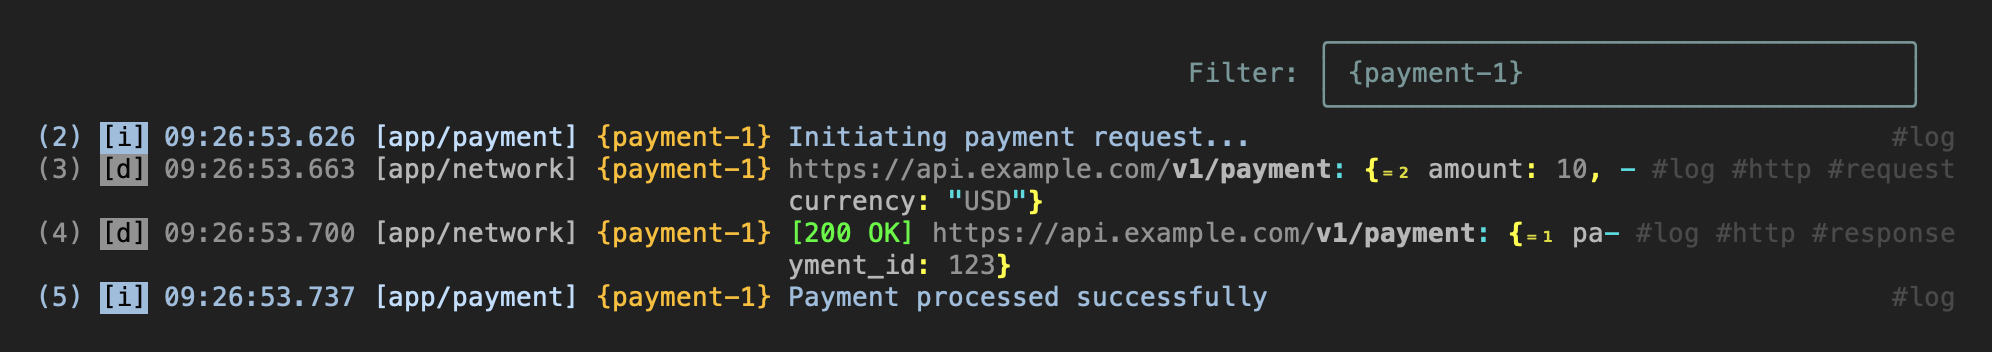
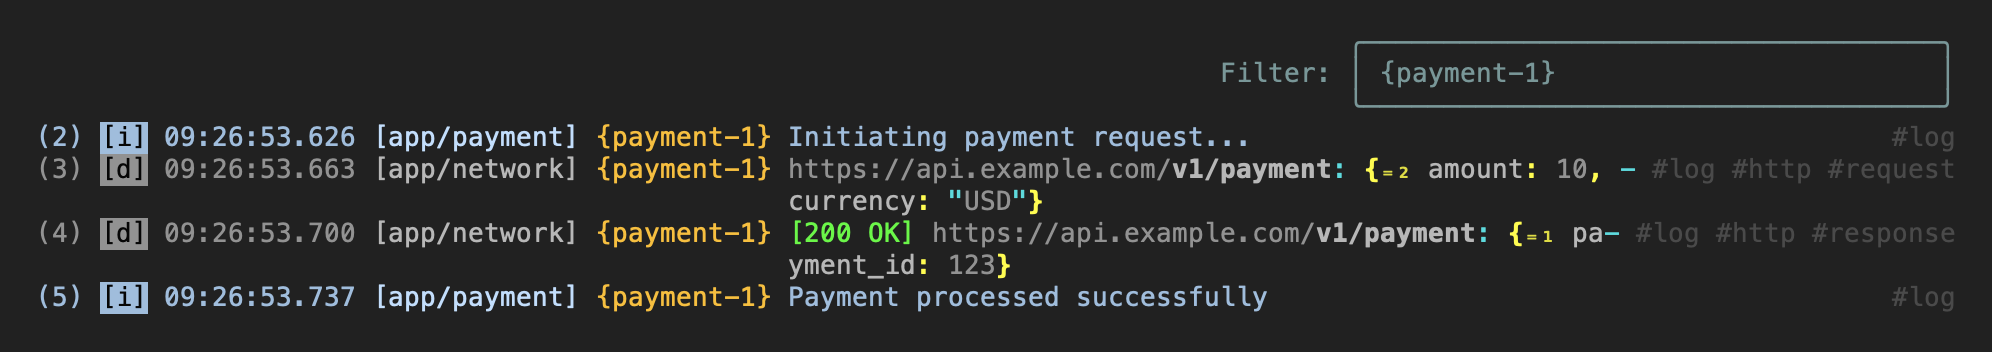
docs: shift the frame annotations as asked
Three backlog items, all of them edits to frame code rather than to
images: the Filter box, the arrows and the descriptions are drawn by the
frame itself with ordinary spaces and live in the .ansi, so moving them
is a matter of indentation plus a re-shoot.

quick_start_1 moves its arrow-and-caption diagram one column left,
quick_start_2..4 move the Filter box two right, trace_4 moves its red
description two right. Exactly the five frames named changed, and a
second --check after the rebuild returns 0.

One consequence worth knowing: the diagram moved as a whole, including
the maxLength: 120 rule beneath it, or the rule would have drifted out of
line with the diagram above. That rule had a single leading space, so it
now starts at column zero and the block cannot go further left without
breaking its own alignment.

Claude-Session: https://claude.ai/code/session_018MEFU6GzoRqzwudmczs1Dg

diff --git a/example/bin/readme_examples/quick_start.dart b/example/bin/readme_examples/quick_start.dart
@@ -49,11 +49,11 @@ Future<void> _quickStart() async {
   await _payment();
 
   print(Styles.rgb311('''
-  ┬   ┬                ┬──────────   ┬────────  ──────┬────────────────────────────────────────────╯ ╰──────────────────┬
-  │   ╰─ level         │             ╰─ trace ID      ╰─ message with data                                        tags ─╯
-  ╰─ sequence number   ╰─ namespace path
+ ┬   ┬                ┬──────────   ┬────────  ──────┬────────────────────────────────────────────╯ ╰──────────────────┬
+ │   ╰─ level         │             ╰─ trace ID      ╰─ message with data                                        tags ─╯
+ ╰─ sequence number   ╰─ namespace path
 
- ╰─────────────────────────────────────────────────── maxLength: 120 ───────────────────────────────────────────────────╯'''));
+╰─────────────────────────────────────────────────── maxLength: 120 ───────────────────────────────────────────────────╯'''));
 }
 
 /// Тот же прогон, из которого принтер оставил один лог по номеру.
@@ -112,7 +112,7 @@ Future<void> _request(int amount, String currency) async {
 
 /// Рамка «Filter: …» над кадром: показывает, чем отфильтрован прогон.
 String _filterBox(String value) => Styles.rgb122(
-      '                                                                                ╭────────────────────────────────────╮\n'
-      '                                                                        Filter: │ ${value.padRight(35)}│\n'
-      '                                                                                ╰────────────────────────────────────╯',
+      '                                                                                  ╭────────────────────────────────────╮\n'
+      '                                                                          Filter: │ ${value.padRight(35)}│\n'
+      '                                                                                  ╰────────────────────────────────────╯',
     );

diff --git a/example/bin/readme_examples/trace.dart b/example/bin/readme_examples/trace.dart
@@ -60,7 +60,7 @@ void _laziness() {
 
   print(
     Styles.rgb311('''
-                          ─────┬
-                               ╰─ lazy-4, not lazy-6'''),
+                            ─────┬
+                                 ╰─ lazy-4, not lazy-6'''),
   );
 }

diff --git a/docs/handoff.md b/docs/handoff.md
@@ -446,11 +446,19 @@ FileLogStorage». Файл владельца — агент в него не п
 бэклога агент не удалял** — в файле лежат правки владельца, и удаление
 пришлось бы коммитить вместе с ними; снять её владельцу самому.
 
-В бэклоге сейчас пять пунктов: свои уровни логирования, `FileLogStorage` в
-Features (сделано), и три новых про кадры README — сдвиги «Filter» и красных
-стрелок в `quick_start_1..4` и `trace_4`. Последние три — правка отступов в
-`example/bin/readme_examples/*.dart` с пересъёмкой, а не редактирование
-картинок: рамка и подписи рисуются кодом кадра (`quick_start.dart:113`).
+Три пункта про кадры тоже сделаны: диаграмма `quick_start_1` — на 1 влево,
+рамка «Filter» в `quick_start_2..4` — на 2 вправо, описание `trace_4` — на 2
+вправо. Это правка отступов в коде кадра с пересъёмкой, картинки руками не
+редактировались. Изменилось ровно пять кадров, `--check` после пересборки
+даёт код 0.
+
+Диаграмма `quick_start_1` сдвинута целиком, вместе с нижней линией
+`maxLength: 120`: у неё был один ведущий пробел, поэтому теперь она с нулевой
+колонки — дальше влево блок не сдвинуть.
+
+**Строки из `docs/backlog.md` агент не удалял** (ни про Features, ни про
+кадры): в файле лежат незакоммиченные правки владельца, и удаление пришлось
+бы коммитить вместе с ними. Снять их владельцу самому.
 
 **Появился `README.ru.md`** — перевод README для владельца и агентов
 (2026-08-23), лежит в корне рядом с оригиналом. Из публикации его убирает
